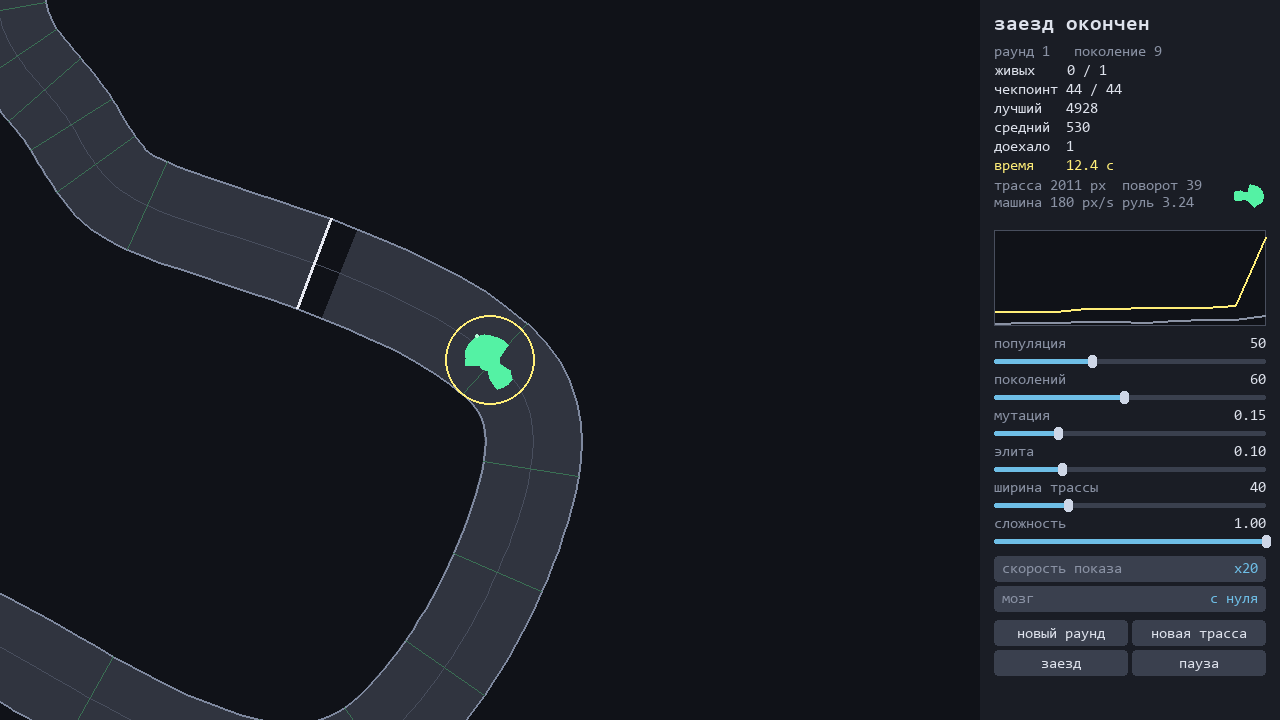
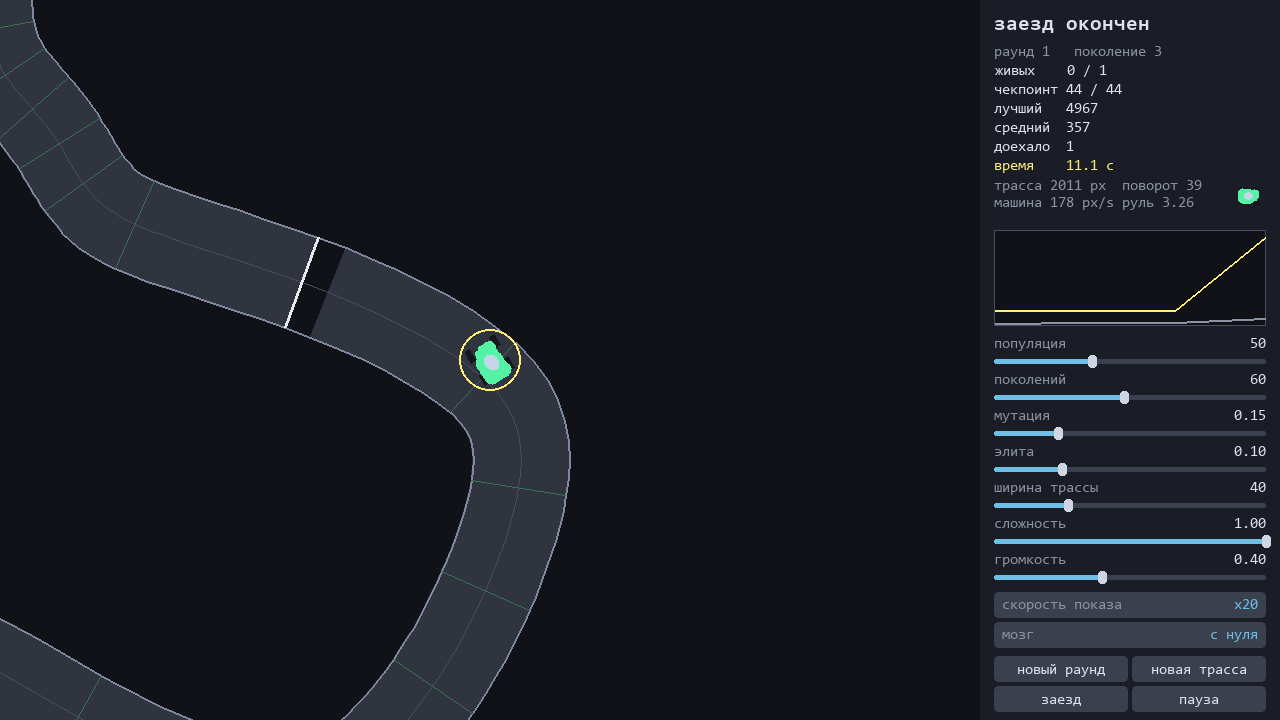
Звук: синтез мотора, удара и финиша без единого аудиофайла
Сэмпл мотора содержит целое число периодов, иначе на стыке цикла
щелчок десятки раз в секунду. Смена оборотов это смена сэмпла
с коротким наплывом, потому что pygame не умеет менять высоту
играющего звука.

Микшер перезапускается: pygame.init поднимает его со своими
параметрами, а повторный init с другими молча игнорируется.

diff --git a/sound.py b/sound.py
@@ -1,0 +1,116 @@
+import numpy as np
+import pygame
+
+import config as cfg
+
+ENGINE_PERIODS = 12
+ENGINE_AMP = 0.28
+ENGINE_NOISE = 0.06
+ENGINE_SMOOTH = 3
+SWITCH_FADE_MS = 45
+
+CRASH_TAU = 0.028
+CRASH_THUMP_HZ = 70.0
+FINISH_NOTES = (523.0, 659.0, 784.0)
+FINISH_NOTE_MS = 130
+
+
+def _to_int16(wave):
+    return (np.clip(wave, -1.0, 1.0) * 32767.0).astype(np.int16)
+
+
+def _smooth(wave, w):
+    if w <= 1:
+        return wave
+    ext = np.concatenate([wave[-w:], wave, wave[:w]])
+    return np.convolve(ext, np.ones(w) / w, mode="same")[w:-w]
+
+
+def engine_sample(freq, rate=None, rng=None):
+    rate = cfg.SAMPLE_RATE if rate is None else rate
+    rng = np.random.default_rng(0) if rng is None else rng
+
+    period = int(round(rate / freq))
+    n = period * ENGINE_PERIODS
+    phase = (np.arange(n) % period) / period
+
+    saw = 2.0 * phase - 1.0
+    second = 0.35 * np.sin(4.0 * np.pi * phase)
+    wave = _smooth(saw + second, ENGINE_SMOOTH)
+    wave += ENGINE_NOISE * _smooth(rng.normal(0.0, 1.0, n), 5)
+    return _to_int16(ENGINE_AMP * wave / np.abs(wave).max())
+
+
+def engine_bank(levels=None, rate=None):
+    levels = cfg.ENGINE_LEVELS if levels is None else levels
+    rng = np.random.default_rng(0)
+    freqs = np.linspace(cfg.ENGINE_F_MIN, cfg.ENGINE_F_MAX, levels)
+    return [engine_sample(f, rate, rng) for f in freqs]
+
+
+def crash_sample(rate=None):
+    rate = cfg.SAMPLE_RATE if rate is None else rate
+    n = int(rate * cfg.CRASH_MS / 1000)
+    t = np.arange(n) / rate
+    decay = np.exp(-t / CRASH_TAU)
+    rng = np.random.default_rng(1)
+    noise = _smooth(rng.normal(0.0, 1.0, n), 3)
+    thump = np.sin(2.0 * np.pi * CRASH_THUMP_HZ * t)
+    return _to_int16(0.55 * decay * (0.7 * noise + 0.6 * thump))
+
+
+def finish_sample(rate=None):
+    rate = cfg.SAMPLE_RATE if rate is None else rate
+    n = int(rate * FINISH_NOTE_MS / 1000)
+    t = np.arange(n) / rate
+    envelope = np.minimum(1.0, 40.0 * t) * np.exp(-t / 0.09)
+    notes = [envelope * np.sin(2.0 * np.pi * f * t) for f in FINISH_NOTES]
+    return _to_int16(0.4 * np.concatenate(notes))
+
+
+class SoundBank:
+    def __init__(self, volume=None):
+        self.volume = cfg.VOLUME if volume is None else volume
+        self.level = -1
+        self.enabled = False
+        try:
+            pygame.mixer.quit()
+            pygame.mixer.init(frequency=cfg.SAMPLE_RATE, size=-16, channels=1, buffer=512)
+            self.engine = [pygame.sndarray.make_sound(s) for s in engine_bank()]
+            self.crash = pygame.sndarray.make_sound(crash_sample())
+            self.finish = pygame.sndarray.make_sound(finish_sample())
+            self.motor = pygame.mixer.Channel(0)
+            self.effects = pygame.mixer.Channel(1)
+        except (pygame.error, AttributeError, ValueError):
+            return
+        self.enabled = True
+        self.set_volume(self.volume)
+
+    def set_volume(self, volume):
+        self.volume = float(np.clip(volume, 0.0, 1.0))
+        if self.enabled:
+            self.motor.set_volume(self.volume * 0.5)
+            self.effects.set_volume(self.volume)
+
+    def update(self, speed, max_speed):
+        if not self.enabled or self.volume <= 0.0:
+            self.stop()
+            return
+        share = float(np.clip(speed / max(max_speed, 1e-9), 0.0, 1.0))
+        level = int(round(share * (len(self.engine) - 1)))
+        if level != self.level:
+            self.level = level
+            self.motor.play(self.engine[level], loops=-1, fade_ms=SWITCH_FADE_MS)
+
+    def play_crash(self):
+        if self.enabled and self.volume > 0.0:
+            self.effects.play(self.crash)
+
+    def play_finish(self):
+        if self.enabled and self.volume > 0.0:
+            self.effects.play(self.finish)
+
+    def stop(self):
+        if self.enabled:
+            self.motor.stop()
+        self.level = -1

diff --git a/tests/test_sound.py b/tests/test_sound.py
@@ -1,0 +1,91 @@
+import numpy as np
+import pygame
+import pytest
+
+import config as cfg
+import sound
+
+
+def test_engine_bank_has_one_sample_per_level():
+    assert len(sound.engine_bank()) == cfg.ENGINE_LEVELS
+
+
+def test_engine_samples_are_int16_and_not_clipped():
+    for s in sound.engine_bank():
+        assert s.dtype == np.int16
+        assert 0 < np.abs(s).max() < 32767
+
+
+def test_engine_sample_holds_a_whole_number_of_periods():
+    for freq in (60.0, 137.0, 260.0):
+        period = int(round(cfg.SAMPLE_RATE / freq))
+        assert len(sound.engine_sample(freq)) % period == 0
+
+
+def test_engine_loop_has_no_click_at_the_seam():
+    for s in sound.engine_bank():
+        seam = abs(int(s[0]) - int(s[-1]))
+        inside = np.abs(np.diff(s.astype(np.int32))).max()
+        assert seam <= inside * 2
+
+
+def test_higher_levels_are_higher_pitched():
+    bank = sound.engine_bank()
+    crossings = [np.count_nonzero(np.diff(np.sign(s.astype(np.int32))) != 0) / len(s) for s in bank]
+    assert crossings[-1] > crossings[0]
+
+
+def test_engine_bank_is_reproducible():
+    assert np.array_equal(sound.engine_bank()[3], sound.engine_bank()[3])
+
+
+def test_crash_lasts_the_configured_time():
+    expected = cfg.SAMPLE_RATE * cfg.CRASH_MS / 1000
+    assert abs(len(sound.crash_sample()) - expected) < 2
+
+
+def test_crash_decays():
+    s = np.abs(sound.crash_sample().astype(np.int32))
+    head, tail = s[:len(s) // 4], s[-len(s) // 4:]
+    assert head.mean() > tail.mean() * 10
+
+
+def test_finish_has_three_notes():
+    expected = 3 * int(cfg.SAMPLE_RATE * sound.FINISH_NOTE_MS / 1000)
+    assert len(sound.finish_sample()) == expected
+
+
+def test_finish_notes_rise_in_pitch():
+    s = sound.finish_sample().astype(np.int32)
+    third = len(s) // 3
+    rate = [np.count_nonzero(np.diff(np.sign(s[i * third:(i + 1) * third])) != 0) for i in range(3)]
+    assert rate[0] < rate[1] < rate[2]
+
+
+def test_all_samples_stay_inside_int16():
+    for s in list(sound.engine_bank()) + [sound.crash_sample(), sound.finish_sample()]:
+        assert s.dtype == np.int16
+        assert np.abs(s).max() <= 32767
+
+
+def test_soundbank_survives_a_missing_audio_device(monkeypatch):
+    def refuse(*args, **kwargs):
+        raise pygame.error("нет аудиоустройства")
+
+    monkeypatch.setattr(pygame.mixer, "init", refuse)
+    bank = sound.SoundBank()
+    assert not bank.enabled
+    bank.update(100.0, 200.0)
+    bank.play_crash()
+    bank.play_finish()
+    bank.set_volume(0.5)
+    bank.stop()
+
+
+def test_volume_is_clamped(monkeypatch):
+    monkeypatch.setattr(pygame.mixer, "init", lambda *a, **k: (_ for _ in ()).throw(pygame.error("нет")))
+    bank = sound.SoundBank()
+    bank.set_volume(5.0)
+    assert bank.volume == 1.0
+    bank.set_volume(-1.0)
+    assert bank.volume == 0.0

diff --git a/main.py b/main.py
@@ -8,6 +8,7 @@ import evolution
 import field
 import race
 import render
+import sound
 import track
 import train
 import ui
@@ -37,6 +38,7 @@ class Game:
 
         self.rng = np.random.default_rng(seed)
         self.build_panel()
+        self.audio = sound.SoundBank(self.ui.value("volume"))
         self.paused = False
         self.best_brain = None
         self.rounds = 0
@@ -54,6 +56,7 @@ class Game:
         p.slider("elite_frac", "элита", 0.0, 0.4, cfg.ELITE_FRAC)
         p.slider("width", "ширина трассы", 25, 80, cfg.TRACK_WIDTH, integer=True)
         p.slider("difficulty", "сложность", 0.0, 1.0, cfg.DIFFICULTY)
+        p.slider("volume", "громкость", 0.0, 1.0, cfg.VOLUME)
         p.skip(4)
         p.toggle("speed", "скорость показа", SPEED_NAMES)
         p.toggle("brain", "мозг", BRAIN_NAMES)
@@ -119,13 +122,20 @@ class Game:
         self.state = SHOWCASE
         self.race = race.Race(self.track, self.field, self.car, self.best_brain[None, :])
 
+    def wrecks(self):
+        return int((~self.race.alive & (self.race.finish_step < 0)).sum())
+
     def advance(self):
         if self.paused or self.state == DONE:
+            self.audio.stop()
             return
+
+        wrecks_before, finished_before = self.wrecks(), self.race.n_finished
         for _ in range(self.speed or cfg.STEPS_PER_GEN):
             if self.race.done:
                 break
             self.race.step()
+        self.play_sounds(wrecks_before, finished_before)
 
         if not self.race.done:
             return
@@ -133,6 +143,18 @@ class Game:
             self.next_generation()
         else:
             self.state = DONE
+
+    def play_sounds(self, wrecks_before, finished_before):
+        self.audio.set_volume(self.ui.value("volume"))
+        if self.race.n_finished > finished_before:
+            self.audio.play_finish()
+        elif self.wrecks() > wrecks_before:
+            self.audio.play_crash()
+
+        if self.race.alive.any():
+            self.audio.update(float(self.race.speed[self.race.alive].max()), self.car.max_speed)
+        else:
+            self.audio.stop()
 
     def key(self, code):
         if code == pygame.K_ESCAPE:
@@ -226,6 +248,7 @@ class Game:
             self.draw_panel()
             pygame.display.flip()
             self.clock.tick(cfg.FPS)
+        self.audio.stop()
         pygame.quit()
 
 

diff --git a/docs/modules/sound.md b/docs/modules/sound.md
@@ -1,0 +1,92 @@
+# sound.py
+
+Звук. Всё синтезируется numpy при запуске, ни одного аудиофайла в проекте нет.
+
+Три звука: вой мотора, удар о стену, три ноты на финише.
+
+## Почему синтез, а не файлы
+
+Скачанный сэмпл мотора звучал бы лучше, но потянул бы за собой лицензию, вес репозитория и вопрос "а где взять". Синтез из десятка строк даёт достаточно узнаваемый результат и ничего не тянет.
+
+Плюс мотор здесь должен менять тон от скорости, а pygame не умеет менять высоту играющего звука. С синтезом нужные варианты просто генерируются заранее.
+
+## Мотор
+
+Пилообразная волна с добавленной второй гармоникой, слегка сглаженная и с примесью шума. Пила выбрана потому, что богата гармониками и звучит жёстко, как двигатель, а не как флейта.
+
+Готовятся 12 сэмплов на частотах от 60 до 260 герц. По скорости лидера выбирается нужный и ставится на бесконечное повторение.
+
+### Целое число периодов
+
+Главная деталь всего модуля.
+
+Сэмпл зацикливается, то есть после последнего отсчёта сразу идёт первый. Если в сэмпле уместилось, скажем, 8.3 периода волны, то на стыке будет разрыв: волна оборвётся на середине и начнётся сначала. Ухо слышит такой разрыв как отчётливый щелчок, повторяющийся десятки раз в секунду.
+
+Поэтому длина считается от периода, а не задаётся в миллисекундах:
+
+```python
+period = int(round(rate / freq))
+n = period * ENGINE_PERIODS
+```
+
+Тест `test_engine_loop_has_no_click_at_the_seam` сравнивает перепад между последним и первым отсчётом с обычным перепадом внутри сэмпла. Если стык окажется резче, тест упадёт.
+
+### Переключение уровней
+
+pygame не умеет менять высоту играющего звука, поэтому смена оборотов это смена сэмпла. Резкая подмена слышна как щелчок, и она гасится коротким наплывом `fade_ms=45`.
+
+Побочный эффект приятный: 12 дискретных уровней с наплывами звучат как переключение передач.
+
+Звук берётся от самой быстрой живой машинки, а не от всех сразу. Пятьдесят моторов слились бы в сплошной шум.
+
+## Удар
+
+Всплеск белого шума с экспоненциальным затуханием плюс низкая синусоида 70 герц для веса. Длительность 120 миллисекунд.
+
+Шум даёт треск, синусоида глухой удар. По отдельности первый звучит как помеха, вторая как барабан.
+
+За кадр играется максимум один удар, даже если разбились двадцать машинок. На скорости x20 иначе получалась бы автоматная очередь.
+
+## Финиш
+
+Три ноты вверх: до, ми, соль. У каждой быстрая атака и мягкое затухание, чтобы не было щелчка в начале.
+
+## Класс `SoundBank`
+
+```python
+bank = sound.SoundBank(volume=0.4)
+bank.update(speed, max_speed)   # каждый кадр
+bank.play_crash()
+bank.play_finish()
+bank.stop()
+```
+
+Два канала: нулевой под мотор, первый под эффекты. Разделение нужно, чтобы удар не обрывал мотор.
+
+### Отсутствие звуковой карты
+
+`pygame.mixer.init` падает, если аудиоустройства нет: на сервере, в контейнере, при перехваченном звуке. Конструктор ловит это и выставляет `enabled = False`, после чего все методы становятся пустыми.
+
+Игра при этом работает молча и не падает. Тест `test_soundbank_survives_a_missing_audio_device` подменяет `pygame.mixer.init` на бросающую исключение и дёргает все методы подряд.
+
+### Про перезапуск микшера
+
+Конструктор начинается с `pygame.mixer.quit()`, и это не лишнее.
+
+`pygame.init()` инициализирует микшер сам, со своими параметрами по умолчанию: скорее всего 44100 герц и два канала. Наши сэмплы моно и на 22050. Повторный `pygame.mixer.init` с другими параметрами уже проинициализированный микшер молча проигнорирует, и `pygame.sndarray.make_sound` упадёт на несовпадении формы массива.
+
+Поэтому микшер сначала закрывается, потом открывается с нужными параметрами.
+
+## Тесты
+
+Синтез проверяется без микшера, чистыми массивами: количество сэмплов, тип `int16`, отсутствие клиппинга, целое число периодов, гладкость стыка, рост высоты по уровням, длительность удара, его затухание, три ноты на финише и их восходящий порядок.
+
+Высота проверяется через число переходов волны через ноль на отсчёт: у более высокой ноты их больше. Это грубо, но не требует преобразования Фурье и ловит перепутанные местами сэмплы.
+
+Работа микшера тестами не покрывается, проверяется ушами.
+
+## Связи
+
+`main.py` создаёт `SoundBank` один раз, каждый кадр вызывает `update` со скоростью самой быстрой живой машинки и дёргает `play_crash` и `play_finish`, сравнивая счётчики до и после шага.
+
+Громкость приходит из ползунка панели и применяется каждый кадр, поэтому ползунок слышно сразу.
